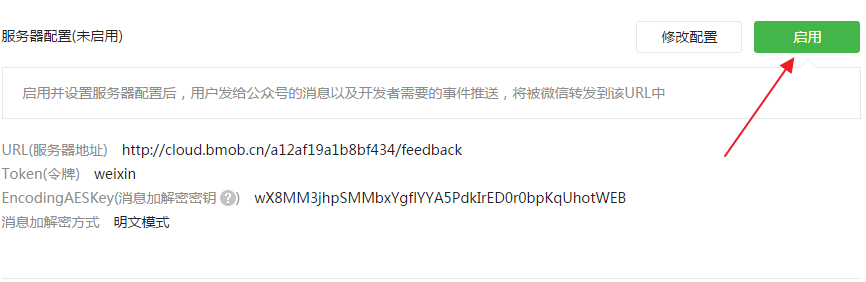
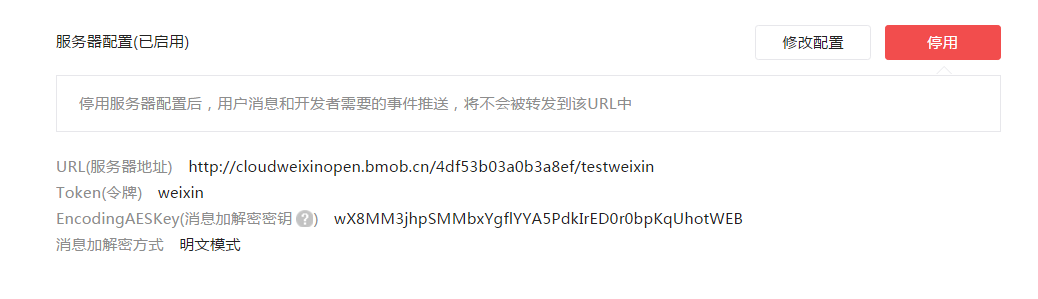
add new cloud doc

diff --git a/cloudcode/WEB/d_cloudcodeweixin/README.md b/cloudcode/WEB/d_cloudcodeweixin/README.md
@@ -2,6 +2,8 @@
 
 在这篇微信公众平台开发教程中，将会带领你一步步领略使用云后端服务bmob的方便性，同时使用bmob进行微信公众号平台开发。
 
+**注意：升级云端代码套餐后就没法在微信公众号中调用云端代码**
+
 使用bmob有什么好处，下面一一为你道来：
 
  - 不需要购买服务器，不需要懂linux，不需要懂运维知识，零成本地拥有属于自己的后台系统。
@@ -187,7 +189,7 @@ function onRequest(request, response, modules) {
 下面展示了以Get的方式调用云端逻辑，在浏览器中输入下面的url：
 
 ```
-http://cloud.bmob.cn/a12af19a1b8bf434/helloworld
+http://cloudweixinopen.bmob.cn/a12af19a1b8bf434/helloworld
 ```
 
 其中：
@@ -206,7 +208,7 @@ http://cloud.bmob.cn/a12af19a1b8bf434/helloworld
 
 ```
 curl -X POST \
-    http://cloud.bmob.cn/a12af19a1b8bf434/helloworld
+    http://cloudweixinopen.bmob.cn/a12af19a1b8bf434/helloworld
 ```
 
 其中：
@@ -380,15 +382,11 @@ function onRequest(request, response, modules) {
 
 ![](image/21.png)
 
-此处的URL（http://cloud.bmob.cn/a12af19a1b8bf434/feedback）为上节中生成的云端逻辑“feedback”的调用，按照云端逻辑的调用规格，a12af19a1b8bf434为该应用的Secret Key，标明调用的是哪个应用，feedback为云端逻辑的名称。Token定义为weixin。EncodingAESKey则不用填，点击“随机生成”让自动生成一个，消息加解密方式选择“明文模式”，然后点击“提交”按钮，如图22所示：
+此处的URL（http://cloudweixinopen.bmob.cn/a12af19a1b8bf434/feedback）为上节中生成的云端逻辑“feedback”的调用，按照云端逻辑的调用规格，a12af19a1b8bf434为该应用的Secret Key，标明调用的是哪个应用，feedback为云端逻辑的名称。Token定义为weixin。EncodingAESKey则不用填，点击“随机生成”让自动生成一个，消息加解密方式选择“明文模式”，然后点击“提交”按钮，如图22所示：
 
 
 ![](image/22.jpg)
 
-点击“启用”，如图23所示：
-
-
-![](image/23.png)
 
 在弹出框中点击确定，如图24所示：
 

diff --git a/cloudcode/WEB/b_developdoc/README.md b/cloudcode/WEB/b_developdoc/README.md
@@ -55,6 +55,8 @@ name=jeff: 传入一个参数，名称是name，值是jeff
 
 ## 转为套餐后调用云端逻辑的方式
 
+**注意：升级云端代码套餐后就没法在微信公众号中调用云端代码**
+
 bmob允许以http的方式直接调用云端逻辑。
 
 ### 获取应用的id值
